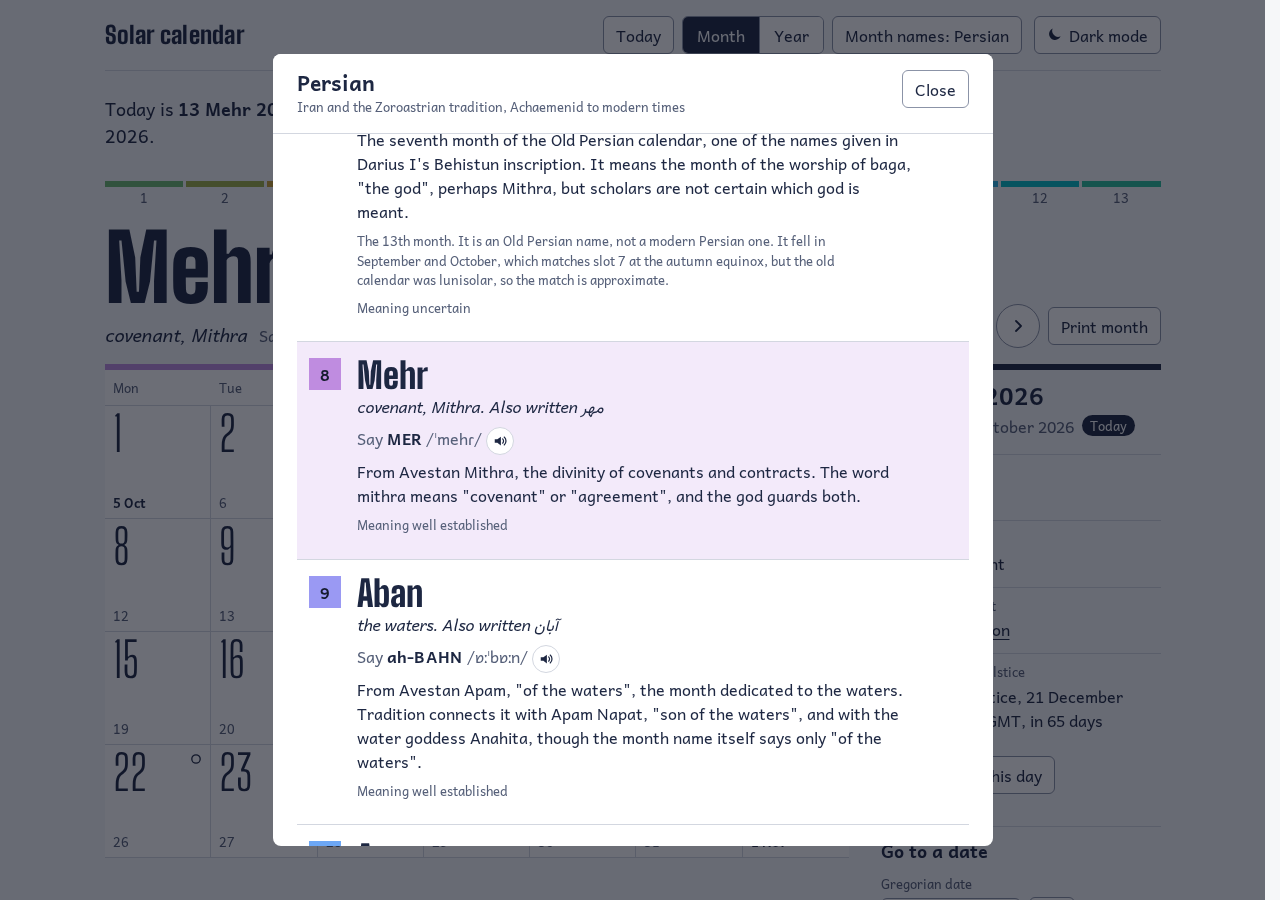
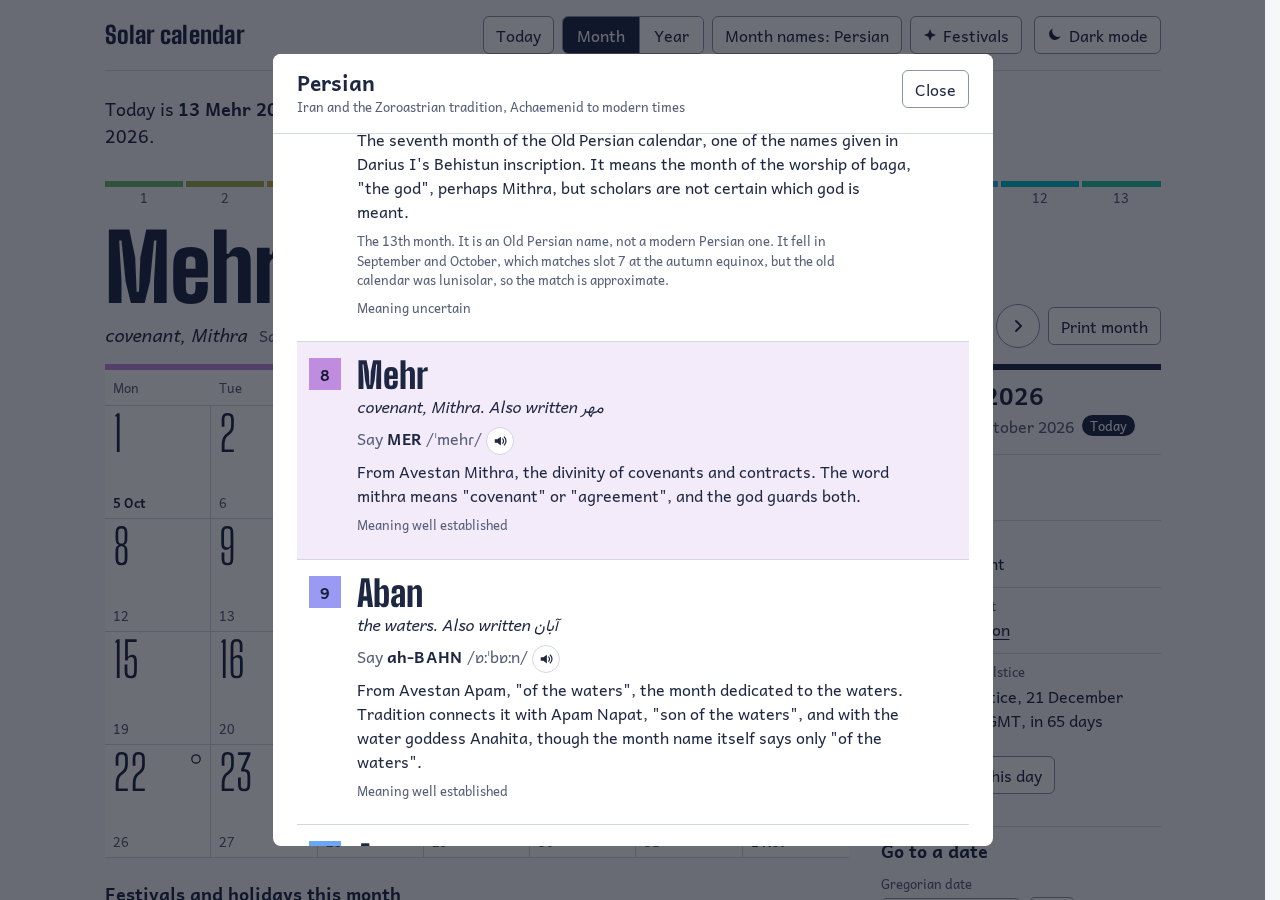
Retake README screenshots, add the Festivals menu, and record the Lighthouse re-run

Changed region(s): [[0.375, 0.0, 0.7812, 0.0622], [0.0625, 0.9644, 0.3125, 1.0]]

diff --git a/README.md b/README.md
@@ -2,11 +2,15 @@
 
 A calendar of 13 identical months. Every month has 28 days, exactly four weeks, so the 1st is always a Monday and the 28th is always a Sunday. The year starts on the first Monday on or after the March equinox, so it stays with the seasons. Gregorian dates are shown alongside every day.
 
-![The month view, with Anglo-Saxon month names](docs/screenshots/month.png)
+![The month view in December, with Anglo-Saxon month names, England and Wales bank holidays, and the month's festivals listed under the grid](docs/screenshots/month.png)
 
-| Year view, dark mode | On a phone | What a name means |
-|---|---|---|
-| ![Every day of solar 2026 in one table, with Old Norse month names](docs/screenshots/year.png) | ![The month view on a phone, with the selected day in a sheet along the bottom](docs/screenshots/phone.png) | ![The meaning dialog for the Persian names, with pronunciations](docs/screenshots/names.png) |
+| Year view, dark mode | Choosing festivals and holidays |
+|---|---|
+| ![Every day of solar 2026 in one table, with Old Norse month names](docs/screenshots/year.png) | ![The Festivals menu, with Scotland's bank holidays and Old Norse and Persian festivals chosen](docs/screenshots/festivals.png) |
+
+| On a phone | What a name means |
+|---|---|
+| ![The month view on a phone, with the selected day in a sheet along the bottom](docs/screenshots/phone.png) | ![The meaning dialog for the Persian names, with pronunciations](docs/screenshots/names.png) |
 
 ## How the calendar works
 

diff --git a/docs/redesign.md b/docs/redesign.md
@@ -470,3 +470,4 @@ Status:
 - [x] Coptic and Persian festivals on their own calendars' rules.
 - [x] Festivals menu, lists under the month and the year, next dates in the meaning dialog, holidays in the feed.
 - [x] `npm run holidays:check` and the weekly workflow.
+- [x] Lighthouse re-run after Phase 7: unchanged, 98 performance on mobile and 100 on desktop, 100 for accessibility, best practices and SEO. Main bundle 24 KB gzipped. README screenshots retaken, with one of the Festivals menu.
